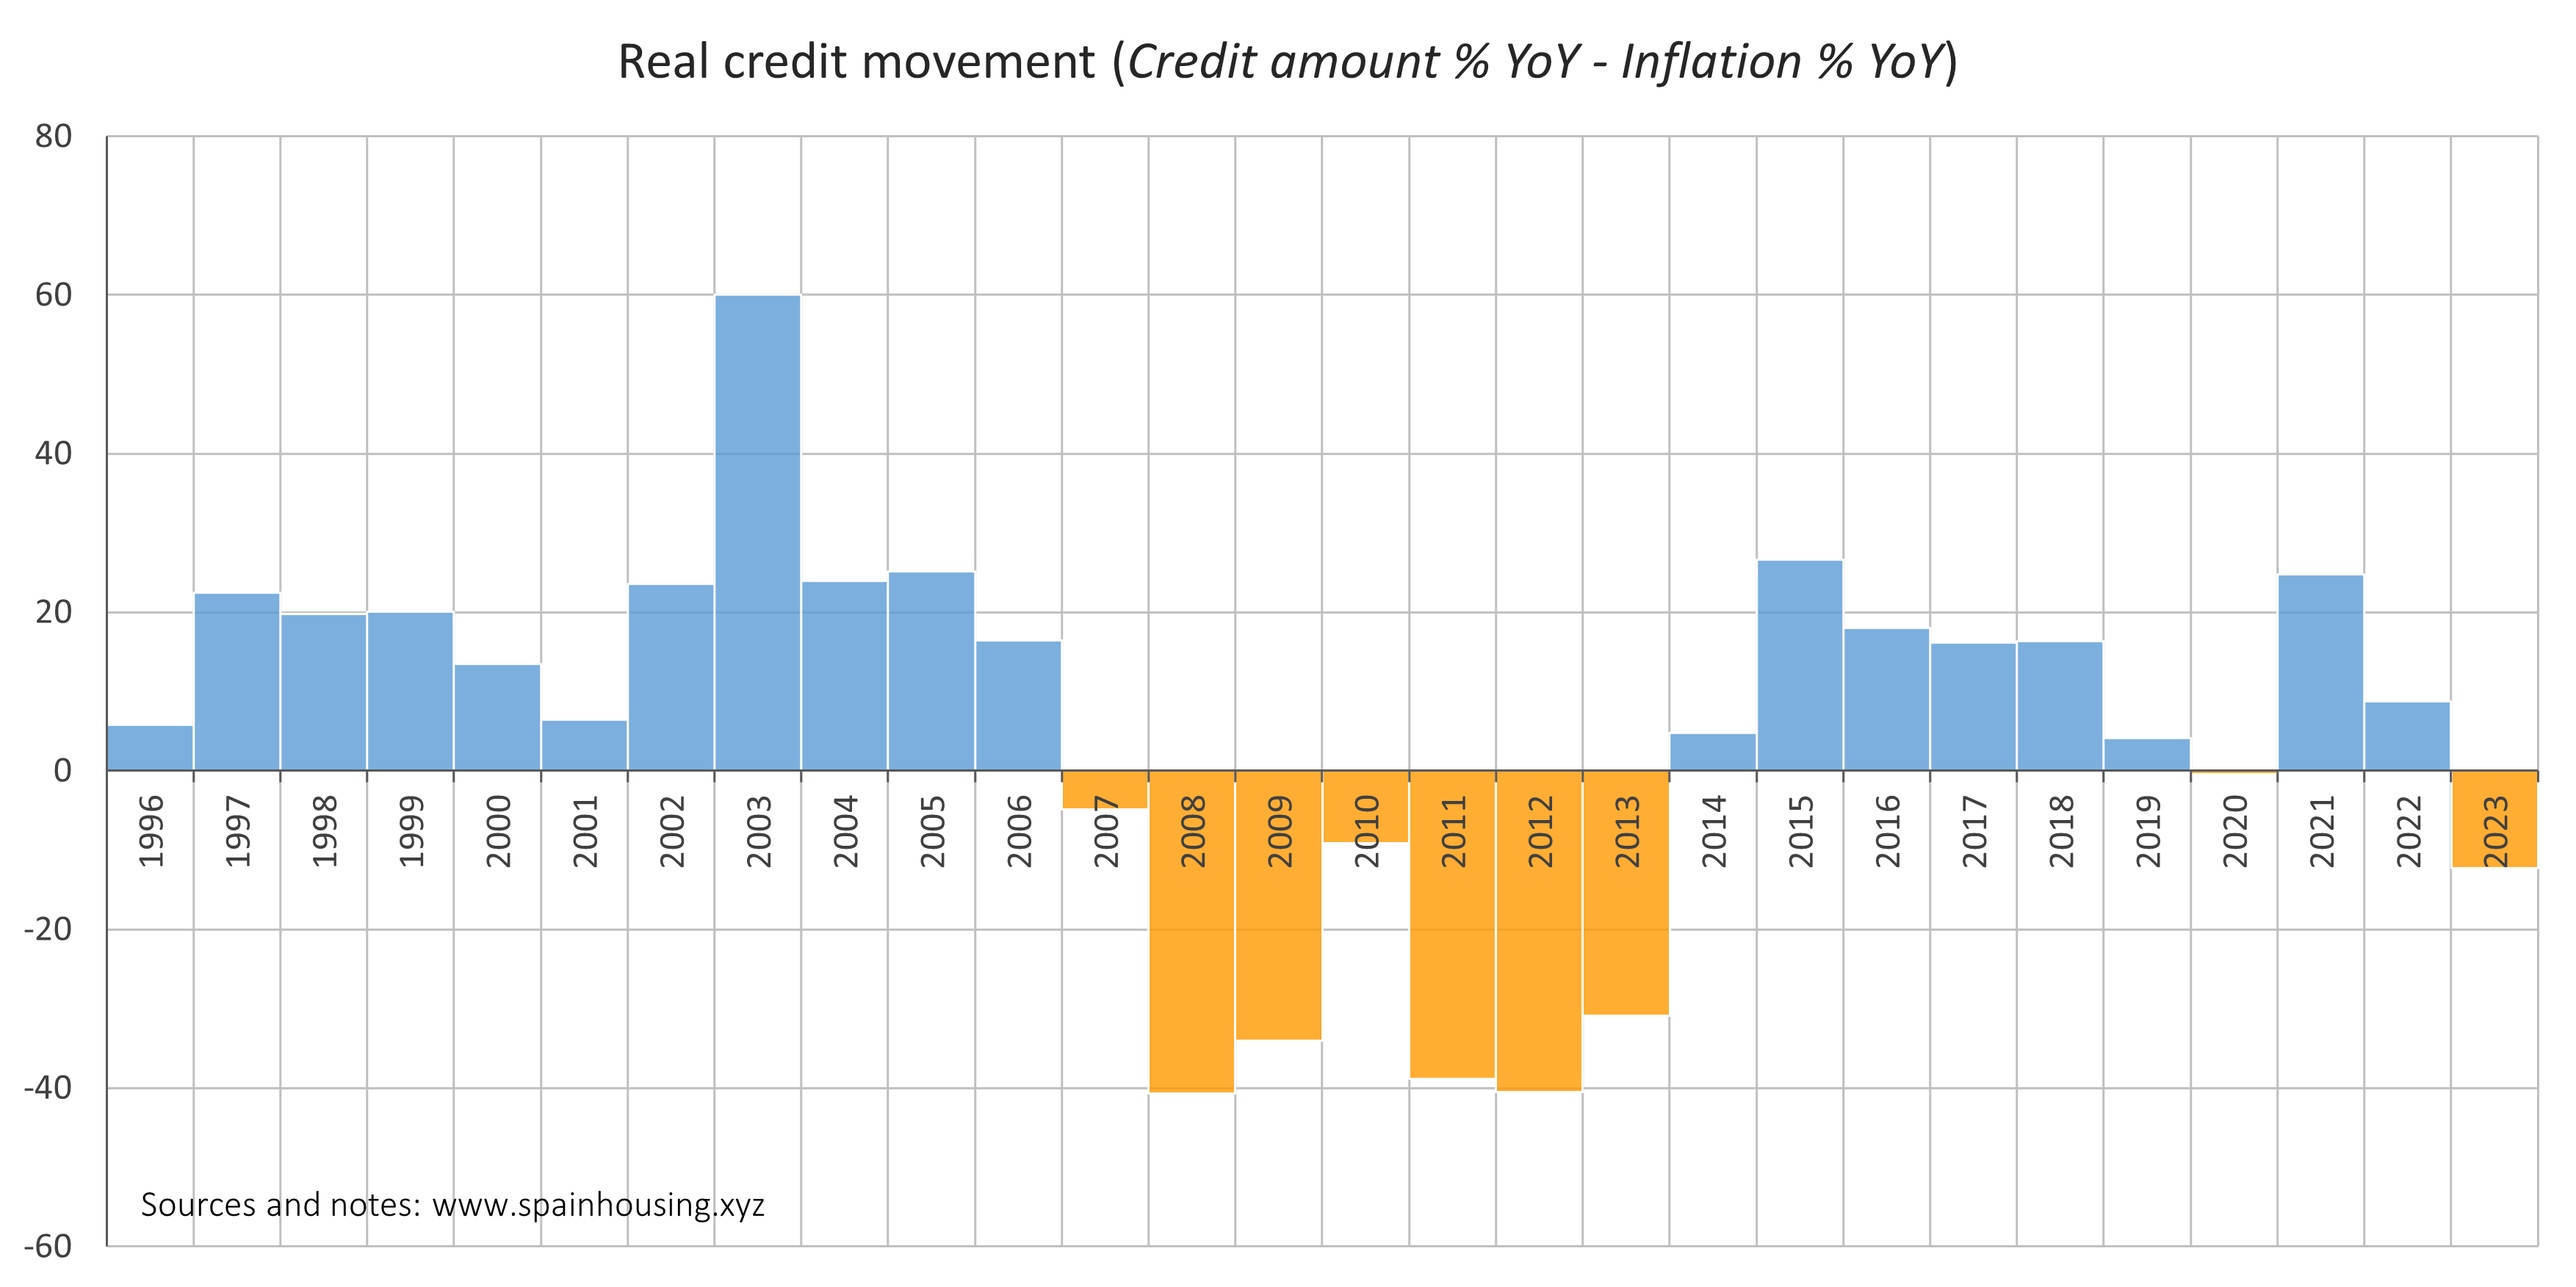
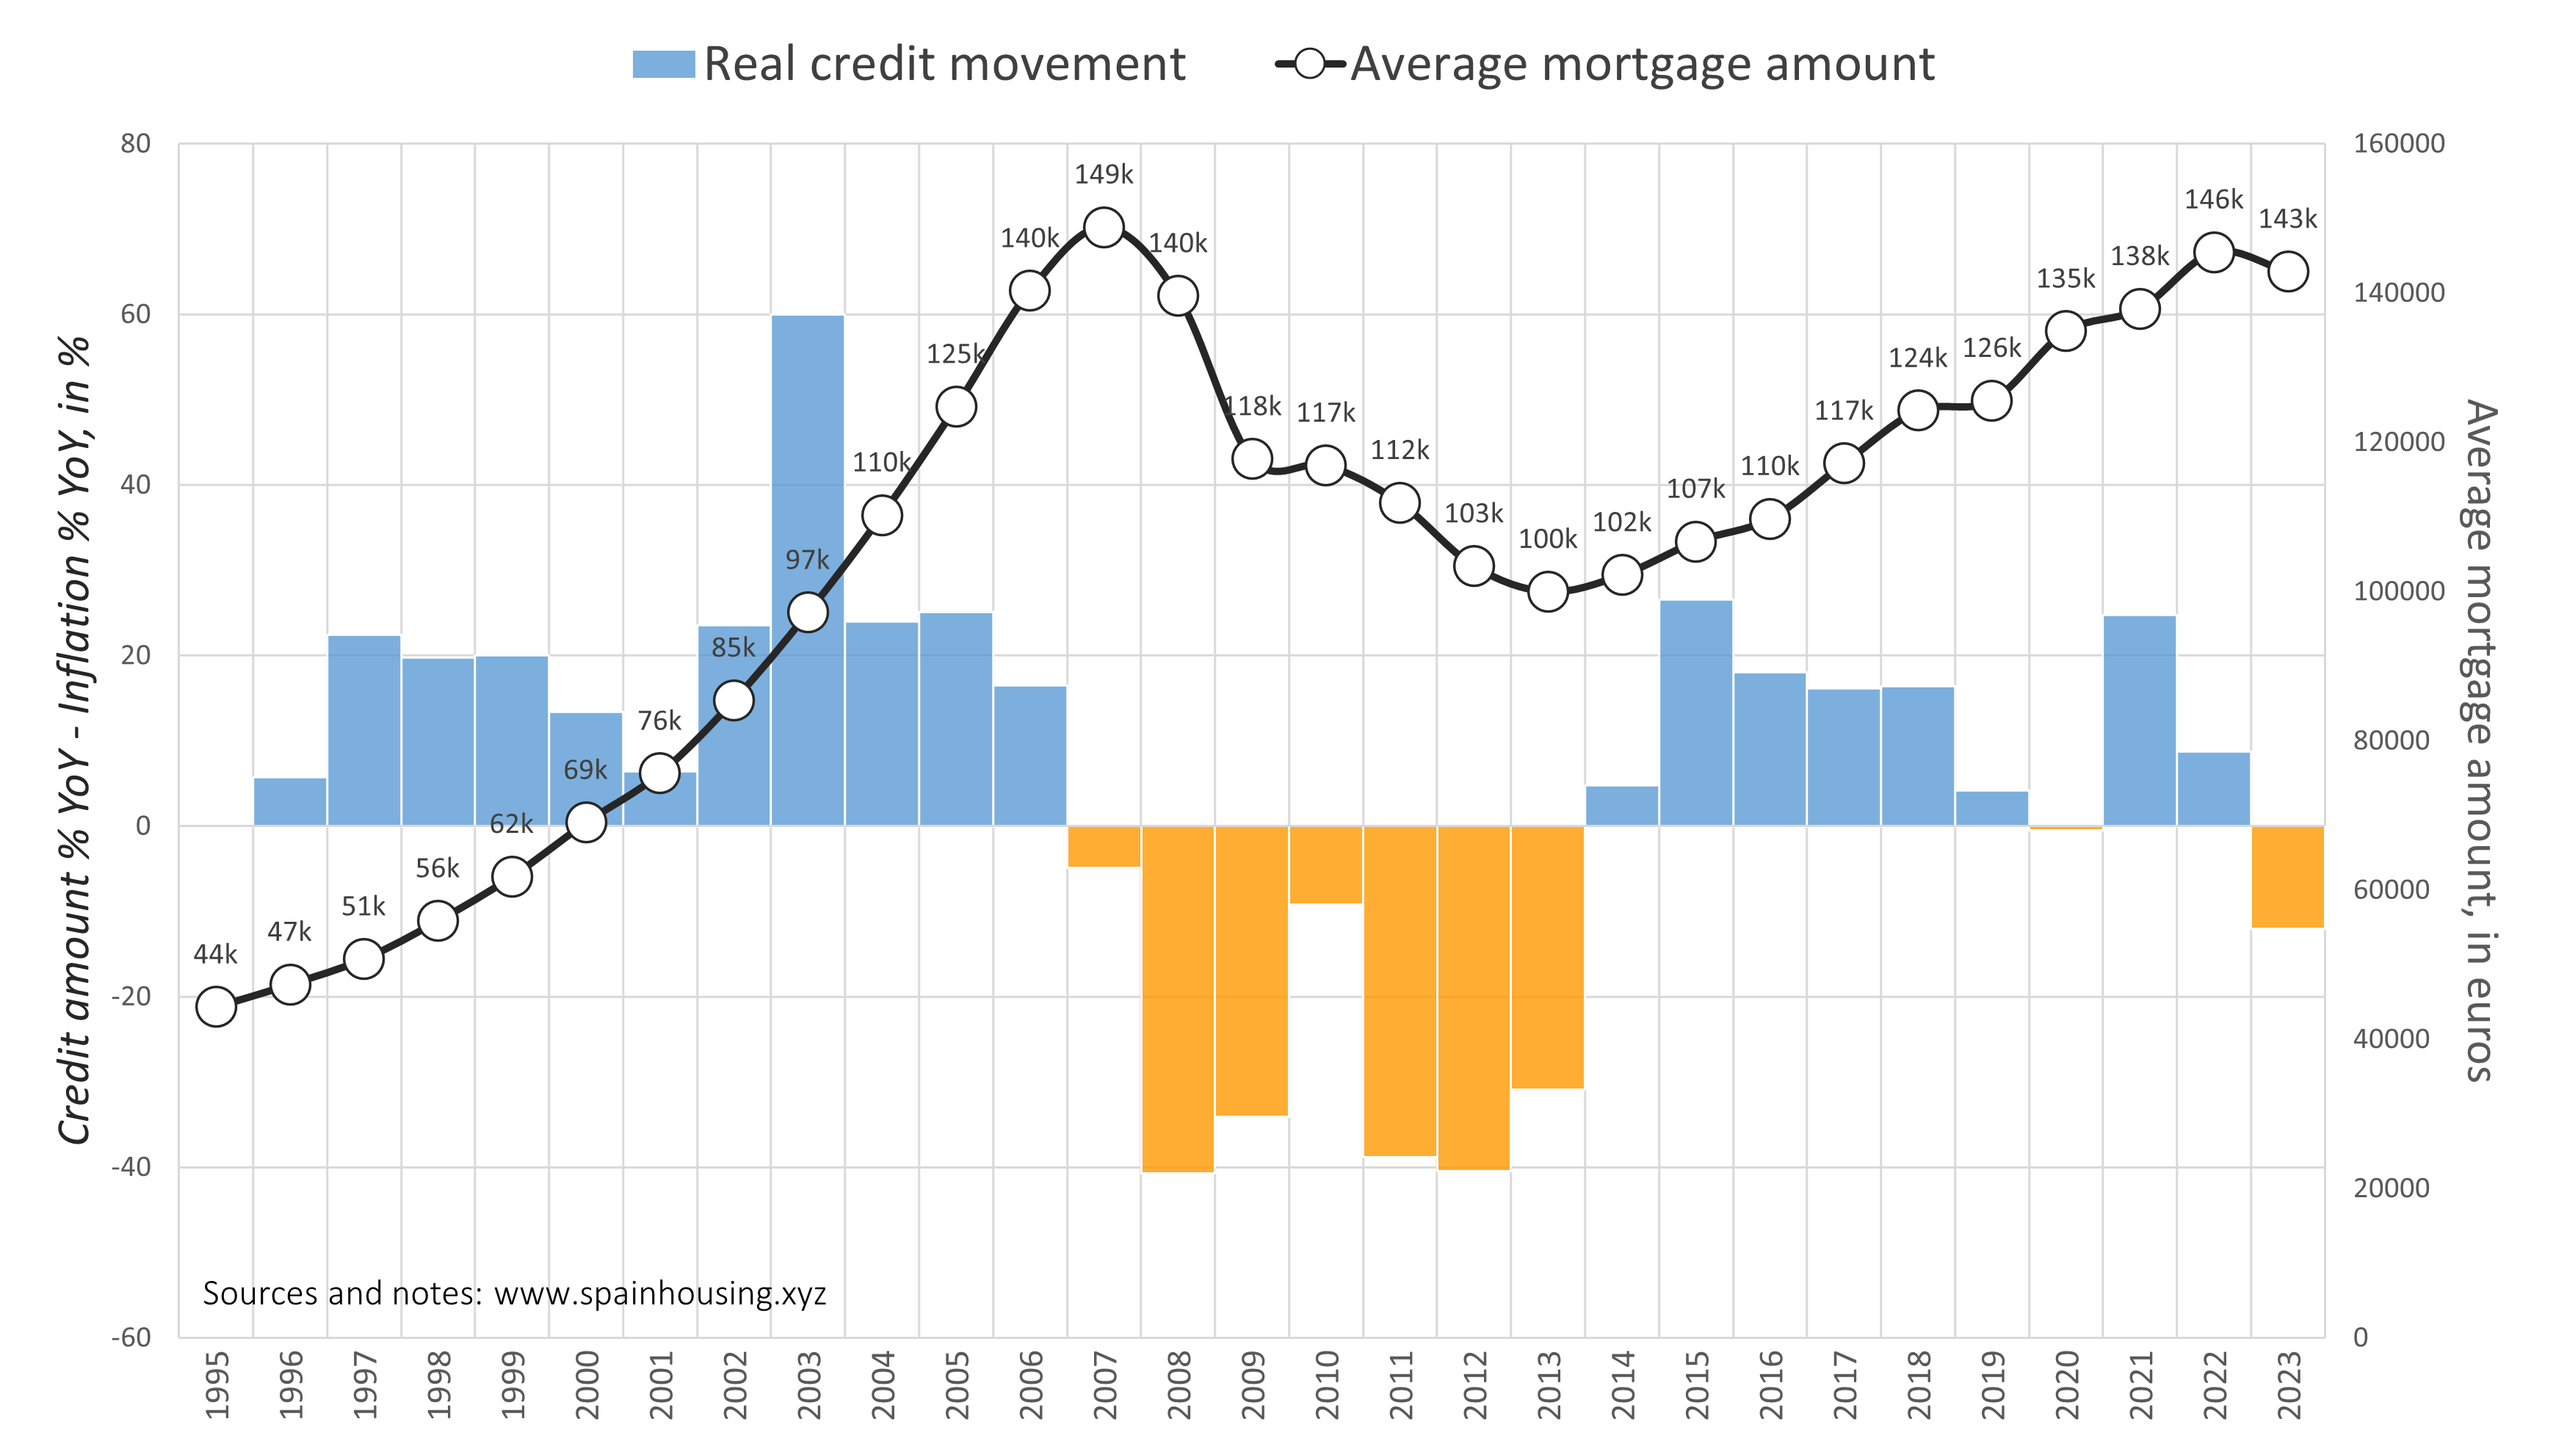
update_mortgages

diff --git a/pages/posts/credit.md b/pages/posts/credit.md
@@ -12,13 +12,13 @@ import Image from 'next/image'
 
 [![Hipotecas en España](/images/credityearly.png)](/images/credityearly.png)
 
-- **Annual evolution of mortgages**, Spain.
-  - **Left axis (bars)**: annual number of mortgages approved and released.
-  - **Right axis (line)**: average annual mortgage amount, in euros.
+- **Annual evolution of mortgages**, total number of mortgages approved and released. _Note: Mortgage approvals are required by law to be registered at the Land Registry, however, releases are not required to be registered. This skews the numbers, about 40% of mortgages settled are not registered as released._
 
 [![Crédito en España](/images/creditmovement.png)](/images/creditmovement.png)
 
-- **Real credit movement (mortgages), in percentage**: blue = real credit expansion; orange = real credit contraction.
+- **Real credit movement and mortgages amount**, Spain.
+ - **Left axis (bars)**: Real credit movement (blue = expansion; orange = contraction), in percentage.
+ - **Right axis (line)**: average annual mortgage amount, in euros.
 
 [![Burbuja inmobiliaria](/images/creditratio.png)](/images/creditratio.png)
 
